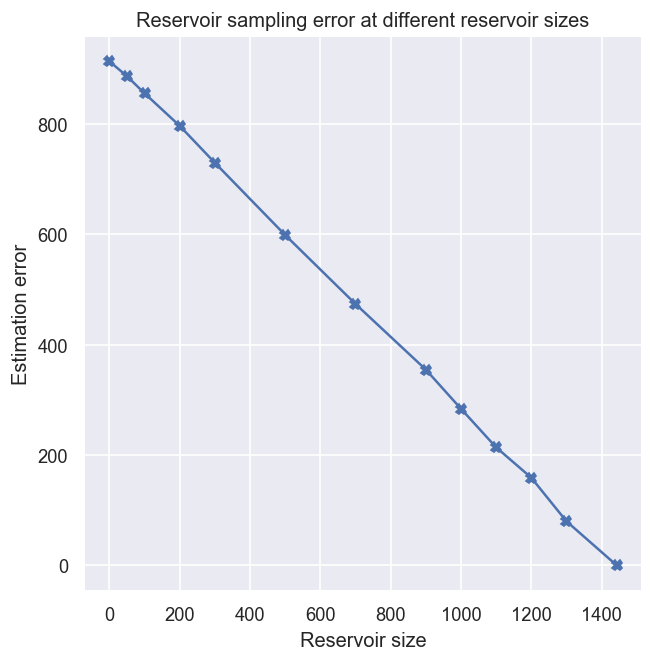
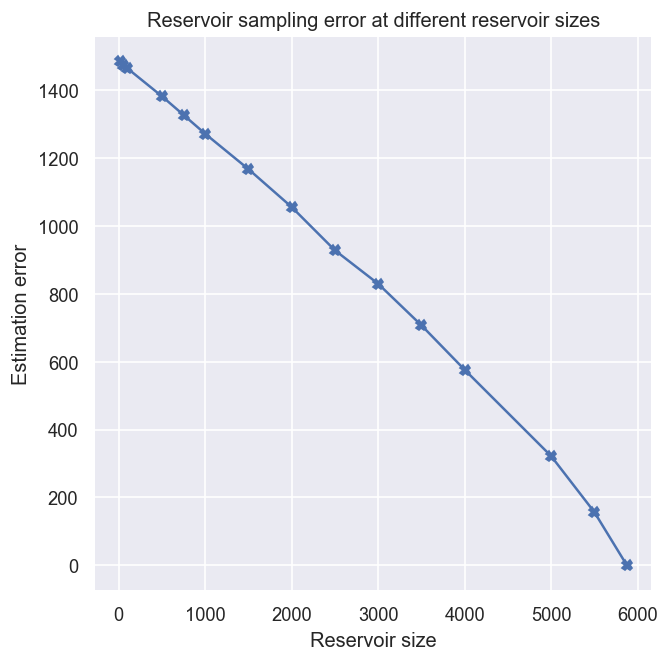
Update reservoir sampling

diff --git a/reservoir_sampling.py b/reservoir_sampling.py
@@ -14,14 +14,14 @@ def true_count(data_df, logger):
   host_df_in  = data_df[data_df['ip_dest'] == logger.config_dict['INFECTED_HOST1']]
 
   ip_comb = Counter(np.concatenate( (host_df_out['ip_dest'].values, host_df_in['ip_src'].values) ))
-  ip_comb = sorted(ip_comb.items(), key=lambda x: x[1], reverse = True)
+  ip_comb = sorted(ip_comb.items(), key=lambda x: (x[1], x[0]), reverse = True)
 
   return ip_comb
 
 
 def estimated_count(reservoir_list):
 
-  return sorted(Counter(reservoir_list).items(), key=lambda x: x[1], reverse = True)
+  return sorted(Counter(reservoir_list).items(), key=lambda x: (x[1], x[0]), reverse = True)
 
 
 def reservoir_sample(data_df, reservoir_size, logger):
@@ -53,6 +53,7 @@ def reservoir_sample(data_df, reservoir_size, logger):
 
 if __name__ == "__main__":
 
+  top_n = 10
   logger = Logger(show = True, html_output = True, config_file = "config.txt")
 
   df = load_data("DATA_FILE1", logger)
@@ -60,21 +61,23 @@ if __name__ == "__main__":
   infected_host_ip = logger.config_dict['INFECTED_HOST1']
   df_host = df[(df['ip_src'] == infected_host_ip) | (df['ip_dest'] == infected_host_ip)]
 
-  reservoir_sizes = [50, 100, 250, 500, 750, 1000, 1500, 2000, 2500, 3000, 3500, 4000, 5000, df_host.shape[0]]
-  num_runs = 10
-  top_n = 10
-  avg_errors = []
-  for reservoir_size in reservoir_sizes:
-    errors = []
-    for _ in num_runs:
-      reservoir = reservoir_sample(df, reservoir_size, logger)
+  true_ip_freq = true_count(df_host, logger)
+  logger.log("Top {} infected host ip true distribution {}".format(top_n, true_ip_freq[:top_n]))
 
-      true_ip_freq = true_count(df, logger)
+  reservoir_sizes = [50, 100, 500, 750, 1000, 1500, 2000, 2500, 3000, 3500, 4000, 5000, 5500, df_host.shape[0]]
+  num_runs = 50
+  avg_errors = []
+  for reservoir_size in reservoir_sizes: 
+    errors = []
+    for _ in range(num_runs):
+      reservoir = reservoir_sample(df_host, reservoir_size, logger)
+
       estimated_ip_freq = estimated_count(reservoir)
 
       crt_err = get_estimation_error(true_ip_freq, estimated_ip_freq, top_n)
       errors.append(crt_err)
     
+    logger.log("Top {} infected host ip estimated distribution {}".format(top_n, estimated_ip_freq[:top_n]))
     avg_errors.append(np.mean(errors))
     logger.log("Reservoir {}: mean error after {} runs {}".format(
       reservoir_size, num_runs, avg_errors[-1]), show_time = True)
